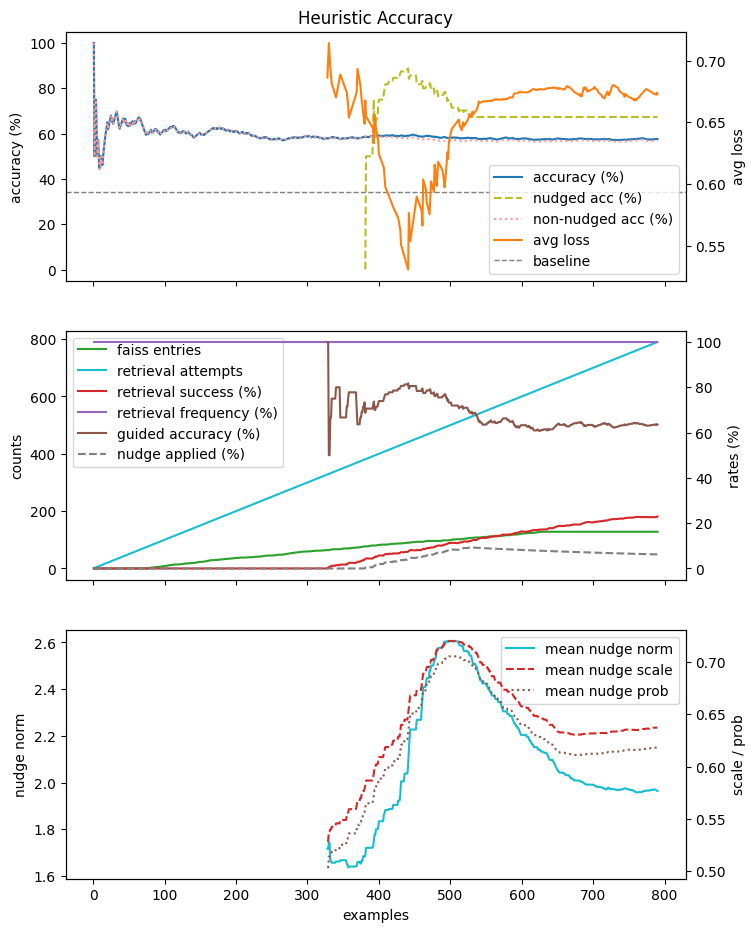
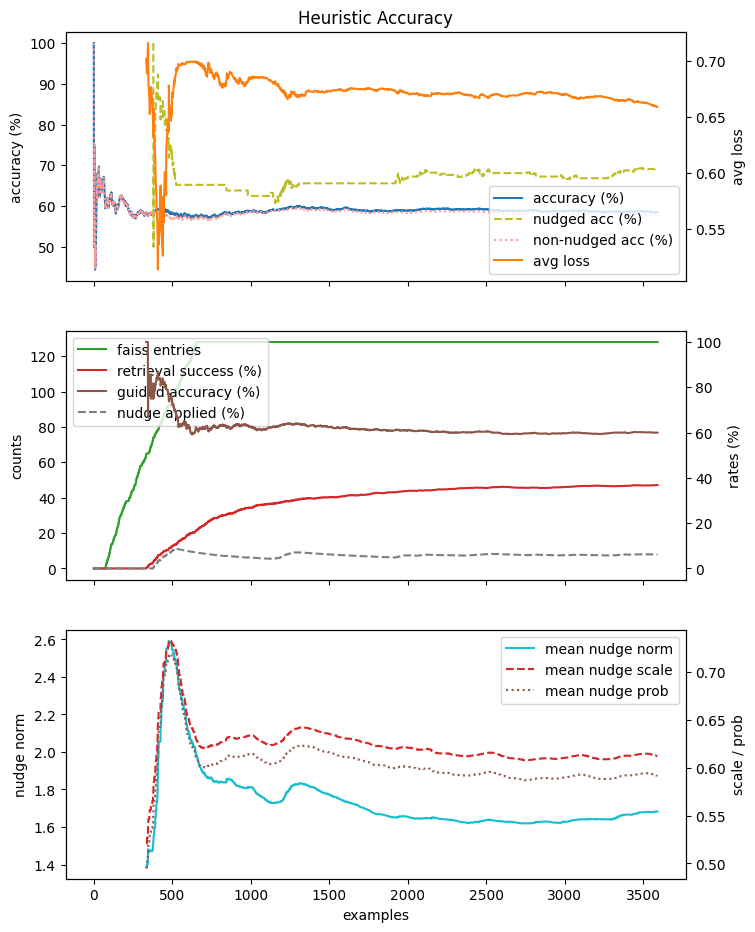
trying new norm cap

diff --git a/exps/heuristic/live_plot.py b/exps/heuristic/live_plot.py
@@ -1,7 +1,48 @@
 from pathlib import Path
-from typing import Optional, Union
+from typing import Dict, Optional, Union
+
+import yaml
 
 import matplotlib.pyplot as plt
+
+
+class YamlMetricsRecorder:
+    """Keeps a bounded YAML summary of recent metrics for LLM consumption."""
+
+    def __init__(
+        self,
+        path: Path,
+        *,
+        max_entries: int = 96,
+        metadata: Optional[Dict[str, float]] = None,
+    ) -> None:
+        self.path = path
+        self.max_entries = max_entries
+        self.metadata = metadata or {}
+        self.entries: list[Dict[str, Union[float, int, str]]] = []
+        self.path.parent.mkdir(parents=True, exist_ok=True)
+
+    def record(self, entry: Dict[str, Optional[float]]) -> None:
+        filtered: Dict[str, float | int | str] = {}
+        for key, value in entry.items():
+            if value is None:
+                continue
+            if isinstance(value, float):
+                filtered[key] = float(value)
+            elif isinstance(value, int):
+                filtered[key] = int(value)
+            else:
+                filtered[key] = value
+        self.entries.append(filtered)
+        if len(self.entries) > self.max_entries:
+            self.entries = self.entries[-self.max_entries :]
+        payload: Dict[str, Union[Dict[str, float], list[Dict[str, Union[float, int, str]]]]] = {
+            "history": self.entries
+        }
+        if self.metadata:
+            payload["metadata"] = self.metadata
+        with self.path.open("w", encoding="utf-8") as handle:
+            yaml.safe_dump(payload, handle, sort_keys=False)
 
 
 class LivePlot:
@@ -61,7 +102,7 @@ class LivePlot:
             [], [], label="nudge applied (%)", color="#7f7f7f", linestyle="--"
         )
         (self.nudge_norm_line,) = self.ax_nudge.plot(
-            [], [], label="mean nudge norm", color="#17becf"
+            [], [], label="mean nudge norm (last5)", color="#17becf"
         )
         (self.nudge_scale_line,) = self.ax_nudge_scale.plot(
             [], [], label="mean nudge scale", color="#d62728", linestyle="--"
@@ -106,11 +147,20 @@ class LivePlot:
 
         self._refresh_legends()
 
+        self.yaml_recorder: Optional[YamlMetricsRecorder]
+
         if save_path is not None:
             self.save_path: Optional[Path] = Path(save_path)
             self.save_path.parent.mkdir(parents=True, exist_ok=True)
+            yaml_metadata = {}
+            if baseline is not None:
+                yaml_metadata["baseline_pct"] = baseline * 100.0
+            self.yaml_recorder = YamlMetricsRecorder(
+                self.save_path.with_suffix(".yaml"), metadata=yaml_metadata
+            )
         else:
             self.save_path = None
+            self.yaml_recorder = None
 
         self.save_every: Optional[int] = None
         if save_every is None:
@@ -156,7 +206,7 @@ class LivePlot:
         faiss_entries: int | None = None,
         retrieval_success_rate: float | None = None,
         retrieval_guidance_success: float | None = None,
-        nudge_norm_mean: float | None = None,
+        nudge_norm_window_mean: float | None = None,
         nudge_scale_mean: float | None = None,
         nudge_prob_mean: float | None = None,
         nudge_applied_rate: float | None = None,
@@ -204,9 +254,9 @@ class LivePlot:
             self.applied_vals.append(nudge_applied_rate * 100.0)
         self.applied_line.set_data(self.applied_steps, self.applied_vals)
 
-        if nudge_norm_mean is not None:
+        if nudge_norm_window_mean is not None:
             self.nudge_norm_steps.append(step)
-            self.nudge_norm_vals.append(nudge_norm_mean)
+            self.nudge_norm_vals.append(nudge_norm_window_mean)
         self.nudge_norm_line.set_data(self.nudge_norm_steps, self.nudge_norm_vals)
 
         if nudge_scale_mean is not None:
@@ -237,6 +287,24 @@ class LivePlot:
         if self.interactive:
             self.fig.canvas.flush_events()
             plt.pause(0.01)
+
+        if self.yaml_recorder is not None:
+            self.yaml_recorder.record(
+                {
+                    "step": int(step),
+                    "accuracy_pct": self.acc_vals[-1] if self.acc_vals else None,
+                    "nudged_accuracy_pct": self.nudged_acc_vals[-1] if self.nudged_acc_vals else None,
+                    "non_nudged_accuracy_pct": self.non_nudged_acc_vals[-1] if self.non_nudged_acc_vals else None,
+                    "avg_loss": self.loss_vals[-1] if self.loss_vals else None,
+                    "faiss_entries": self.entry_vals[-1] if self.entry_vals else None,
+                    "retrieval_success_pct": self.success_vals[-1] if self.success_vals else None,
+                    "guided_accuracy_pct": self.guidance_vals[-1] if self.guidance_vals else None,
+                    "nudge_applied_pct": self.applied_vals[-1] if self.applied_vals else None,
+                    "nudge_norm_last5": self.nudge_norm_vals[-1] if self.nudge_norm_vals else None,
+                    "nudge_scale_mean": self.nudge_scale_vals[-1] if self.nudge_scale_vals else None,
+                    "nudge_prob_mean": self.nudge_prob_vals[-1] if self.nudge_prob_vals else None,
+                }
+            )
 
         if self.save_path is not None and self.save_every is not None:
             if len(self.perf_steps) % self.save_every == 0:

diff --git a/exps/heuristic/run_experiment.py b/exps/heuristic/run_experiment.py
@@ -1,6 +1,7 @@
 import json
 import sys
 import time
+from collections import deque
 from pathlib import Path
 from typing import Any, Dict, List, Optional, Tuple
 
@@ -277,6 +278,7 @@ def main() -> None:
         "nudge_prob_sum": 0.0,
         "nudge_prob_count": 0,
     }
+    recent_nudge_norms: deque[float] = deque(maxlen=5)
 
     plotter = (
         LivePlot(
@@ -352,10 +354,12 @@ def main() -> None:
         else:
             rolling_loss = None
 
-        nudge_norm_pg = log_info.get("nudge_norm_pre_gate")
-        if nudge_norm_pg is not None:
-            stats["nudge_norm_sum"] += float(nudge_norm_pg)
+        nudge_norm_returned = log_info.get("nudge_norm_returned")
+        if nudge_norm_returned is not None:
+            norm_val = float(nudge_norm_returned)
+            stats["nudge_norm_sum"] += norm_val
             stats["nudge_norm_count"] += 1
+            recent_nudge_norms.append(norm_val)
 
         nudge_scale_val = log_info.get("nudge_scale")
         if nudge_scale_val is not None:
@@ -430,9 +434,14 @@ def main() -> None:
             if stats["retrieval_successes"] > 0
             else None
         )
-        nudge_norm_mean = (
+        nudge_norm_global_mean = (
             stats["nudge_norm_sum"] / stats["nudge_norm_count"]
             if stats["nudge_norm_count"] > 0
+            else None
+        )
+        nudge_norm_recent_mean = (
+            sum(recent_nudge_norms) / len(recent_nudge_norms)
+            if recent_nudge_norms
             else None
         )
         nudge_scale_mean = (
@@ -476,7 +485,7 @@ def main() -> None:
                 faiss_entries=faiss_index_size,
                 retrieval_success_rate=retrieval_success_rate,
                 retrieval_guidance_success=retrieval_guidance_success,
-                nudge_norm_mean=nudge_norm_mean,
+                nudge_norm_window_mean=nudge_norm_recent_mean,
                 nudge_scale_mean=nudge_scale_mean,
                 nudge_prob_mean=nudge_prob_mean,
                 nudge_applied_rate=nudge_applied_rate,
@@ -522,7 +531,8 @@ def main() -> None:
                 "retrieval_successes": stats["retrieval_successes"],
                 "retrieval_frequency": retrieval_frequency,
                 "retrieval_guidance_success": retrieval_guidance_success,
-                "nudge_norm_mean": nudge_norm_mean,
+                "nudge_norm_mean": nudge_norm_global_mean,
+                "nudge_norm_mean_last5": nudge_norm_recent_mean,
                 "nudge_scale_mean": nudge_scale_mean,
                 "nudge_prob_mean": nudge_prob_mean,
                 "nudge_applied_rate": nudge_applied_rate,

diff --git a/heuristic.py b/heuristic.py
@@ -530,7 +530,7 @@ class HeuristicMemory:
     ) -> Tuple[Tensor, float, float, float]:
         scale_floor = self.nudge_scale_min
         scale = scale_floor + (1.0 - scale_floor) * prob
-        scaled = raw_nudge * scale
+        scaled = self._cap_norm(raw_nudge * scale)
         scaled_norm = scaled.detach().norm().item()
         return scaled, scale, scale_floor, scaled_norm
 
